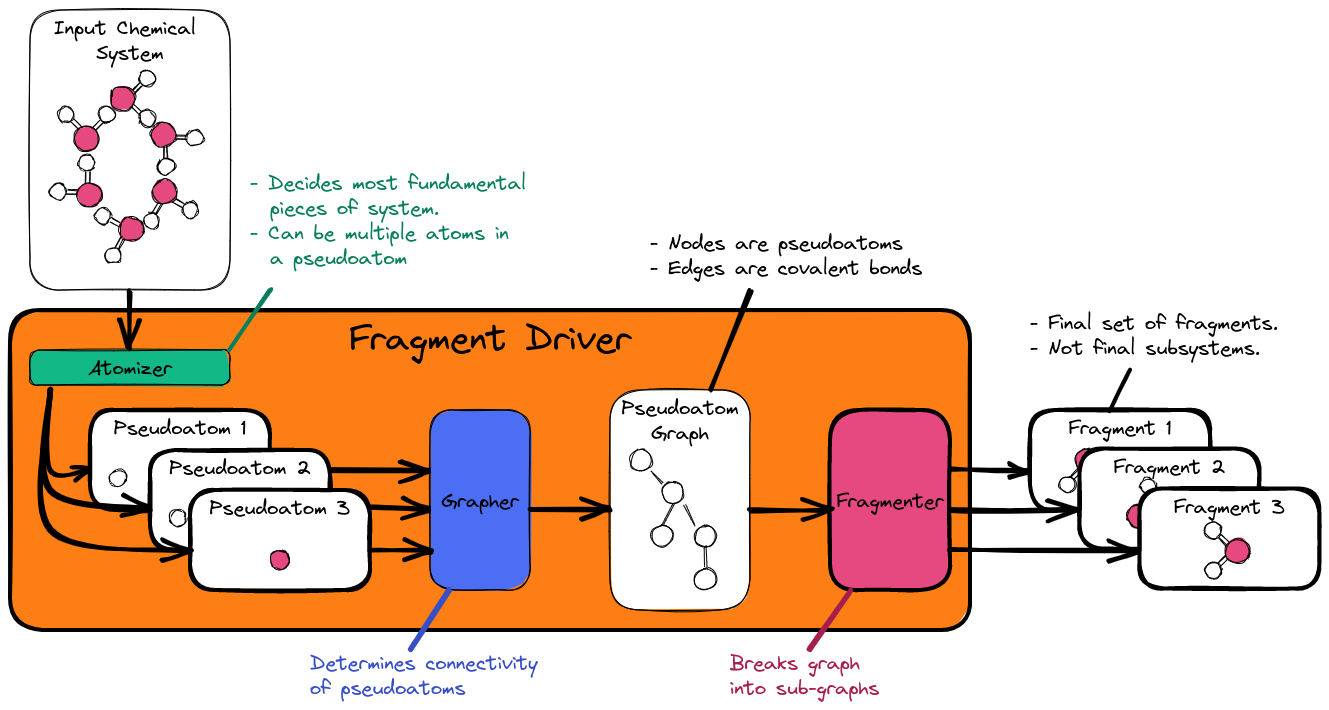
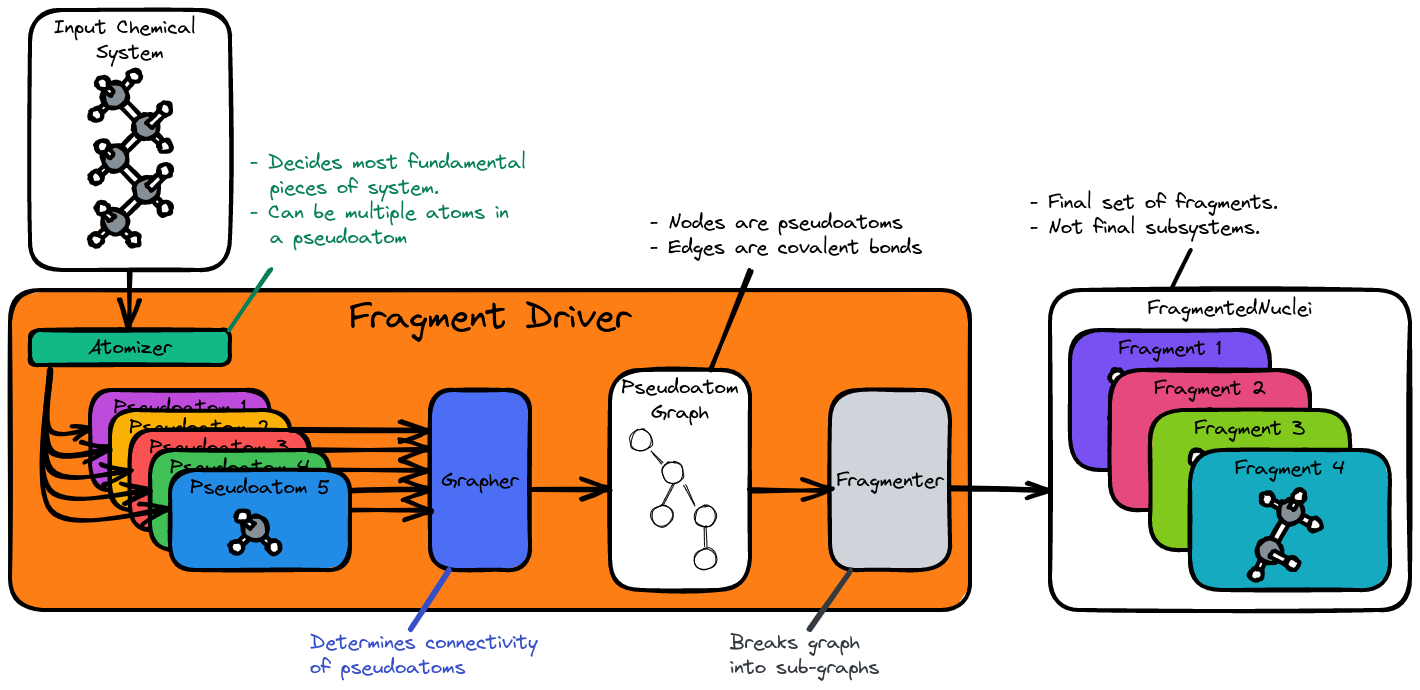
backup figures

diff --git a/docs/source/developer/design/overview.rst b/docs/source/developer/design/overview.rst
@@ -118,3 +118,11 @@ Link to full discussion :ref:`gf_fragmented_system_driver_design`.
    :align: center
 
    The major components of the ``FragmentedSystem`` driver.
+
+Fragment Driver
+===============
+
+.. figure:: assets/fragment_driver.png
+   :align: center
+
+   The major components of the ``FragmentDriver``.
